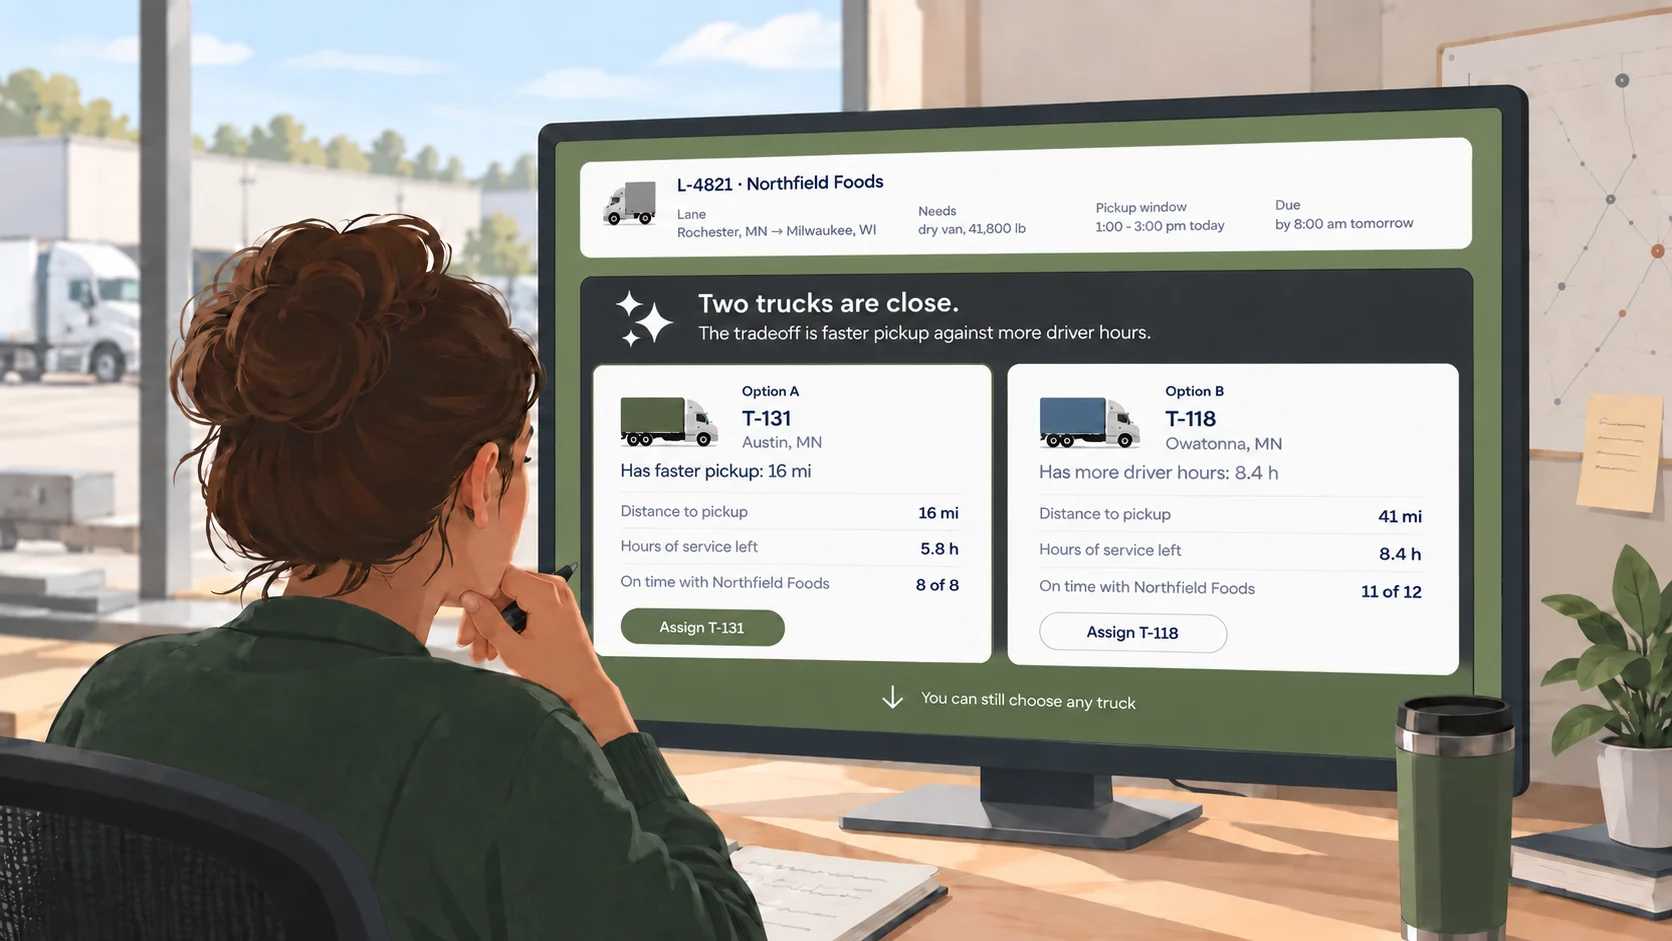
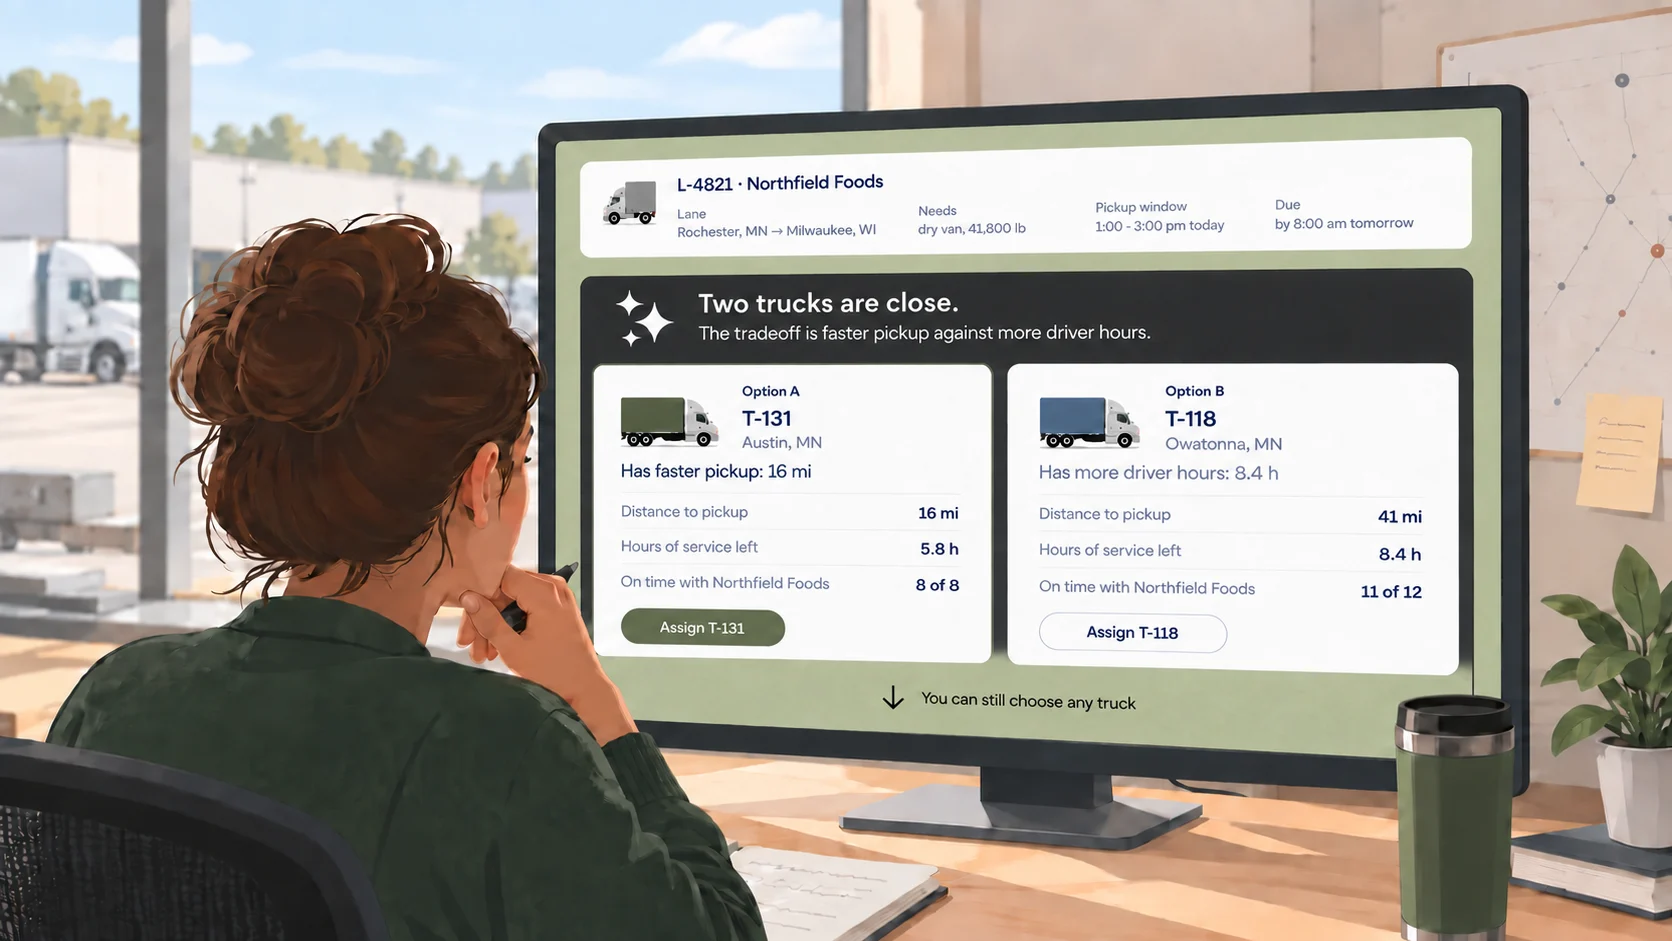
The cockpit card's screen takes the paler sage
A second render, replacing the one 3ed012b shipped half an hour ago. Same
path, same 1672x941, same scene and same numbers; the change is again only
the interface inside the monitor. The screen surround is the paler sage
rather than the deep olive, and the banner is black rather than charcoal.

It sits better on the card than the olive did. The tile's ground is the
section's pale sage, and the darker render made the monitor a heavy block
against it; the lighter surround lets the drawing read as a room with a
screen in it rather than as a screen with a room around it.

Alt text untouched and still true line for line -- lane named, tradeoff
stated in words, each option keeping its own Assign button.

Cache-buster to ?v=3. ?v=2 was served from adamhickey.com between those two
deploys, so it cannot be reused.

Straight to main under the asset swap carve-out, same as 3ed012b: one file
under img/ plus one src attribute, width and height unchanged.

Counts unmoved against 3ed012b, on index.html: 1439 resting colors and 218
state rules, both --strict, and the two artwork-backed measurements on this
page remain the hero caption over hero-portrait.mp4, not this thumbnail.
deployable, tokens, counts and seo clean.

diff --git a/index.html b/index.html
@@ -482,7 +482,7 @@
                morph into. -->
           <a class="case-card case-card--prototype reveal" href="prototype/dispatch-cockpit.html" aria-label="Open the prototype: A dispatch cockpit that shows its work">
             <div class="case-thumb">
-              <img decoding="async" loading="lazy" src="img/site/dispatch-cockpit-close-call.webp?v=2" alt="A dispatcher at a desk weighing the cockpit&rsquo;s close call on a load from Rochester to Milwaukee: two trucks are close, the tradeoff is faster pickup against more driver hours, and either one can be assigned from its own card." width="1672" height="941"/>
+              <img decoding="async" loading="lazy" src="img/site/dispatch-cockpit-close-call.webp?v=3" alt="A dispatcher at a desk weighing the cockpit&rsquo;s close call on a load from Rochester to Milwaukee: two trucks are close, the tradeoff is faster pickup against more driver hours, and either one can be assigned from its own card." width="1672" height="941"/>
             </div>
             <div class="case-card-body">
               <h3>A dispatch cockpit that shows its work</h3>
